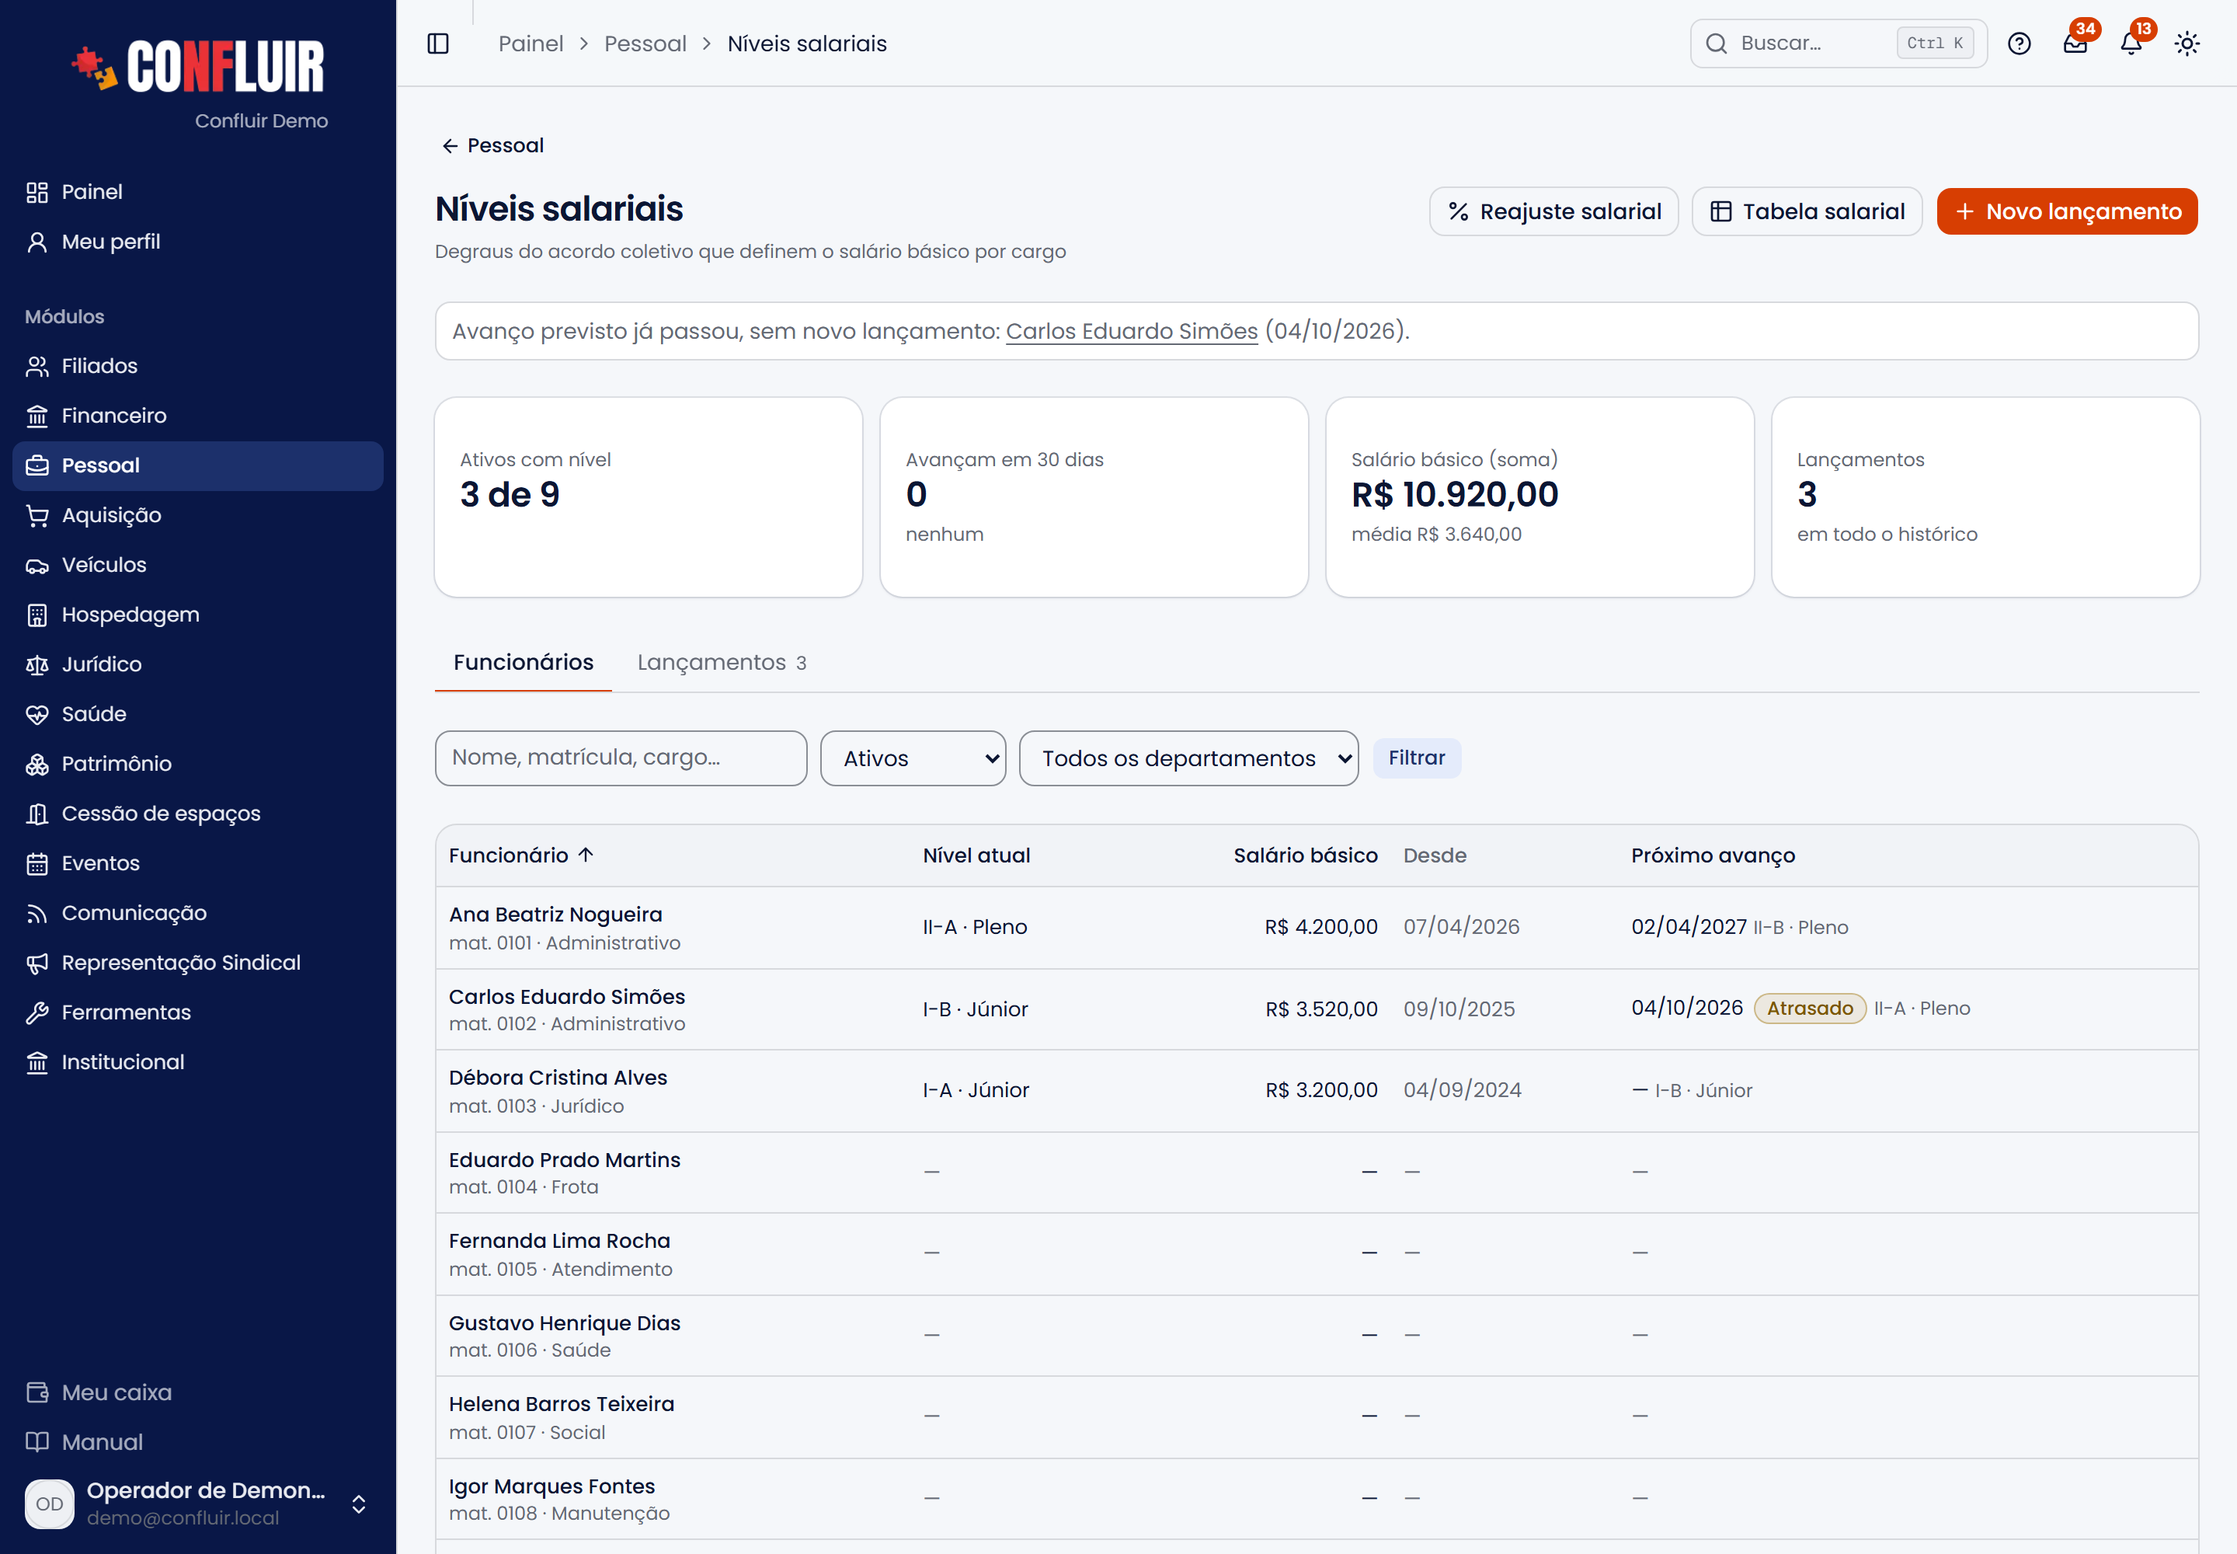
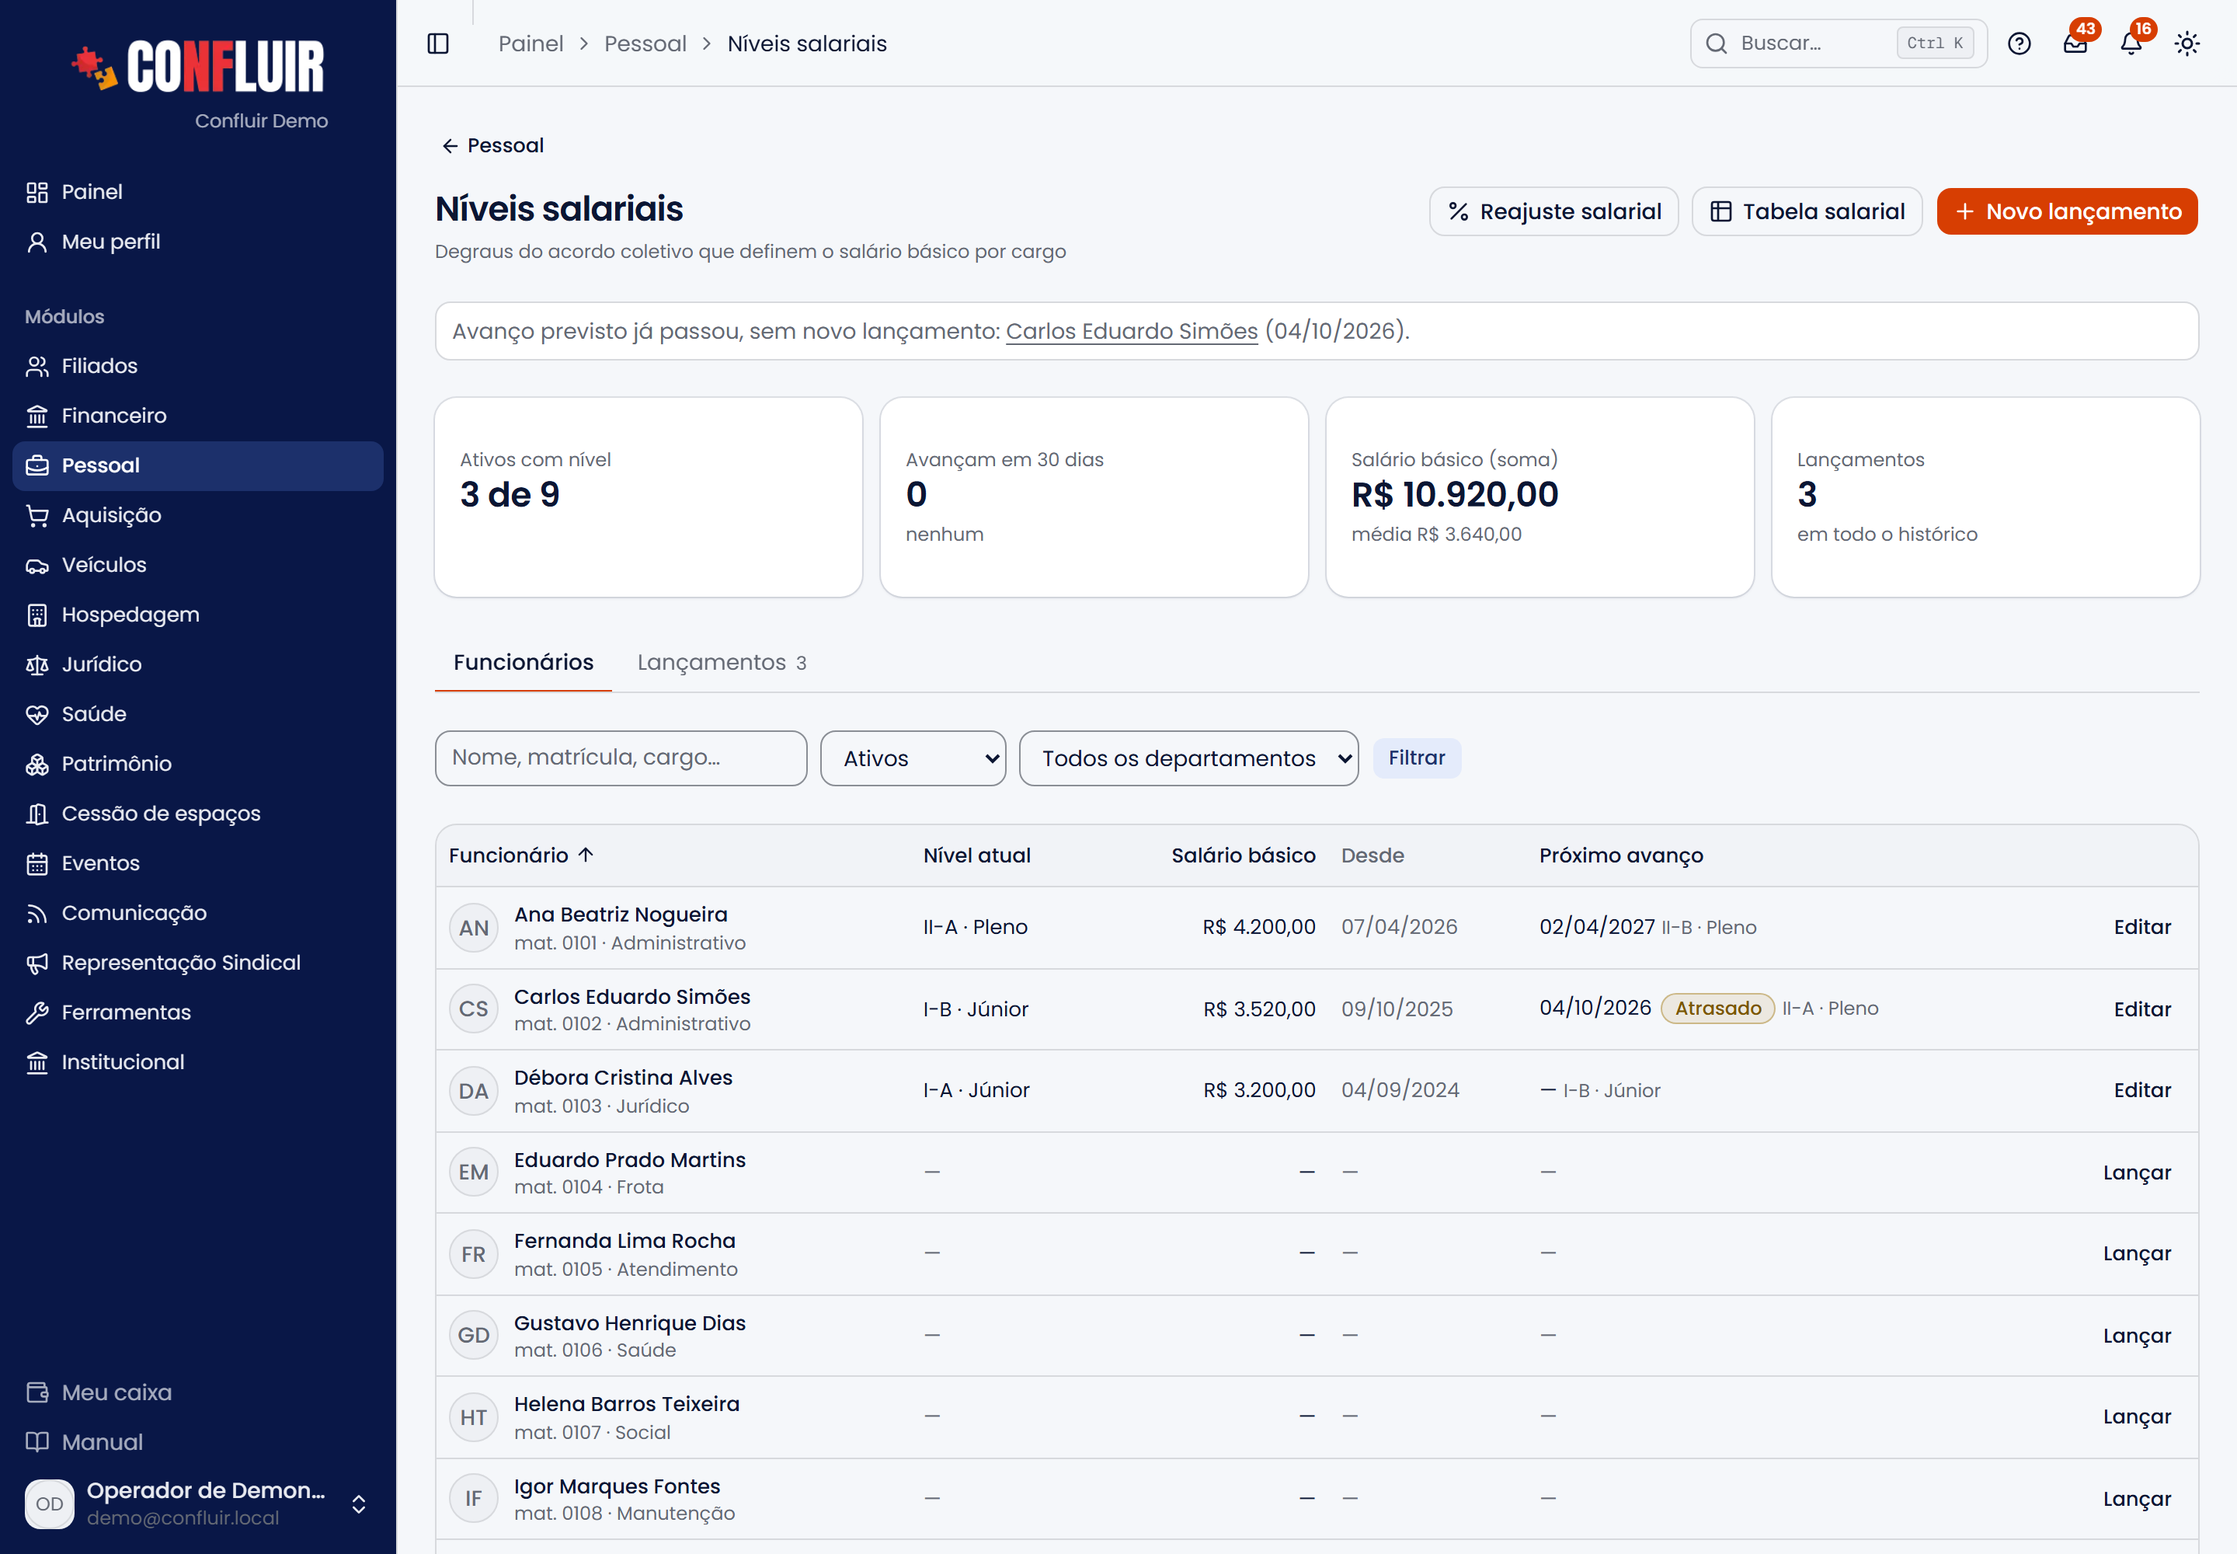
Pessoal: editar o nível direto da Carreira e da aba Funcionários
A edição do lançamento existia, mas só a aba Lançamentos mostrava o botão.
Agora há Editar na Carreira (níveis e anuênios) e na aba Funcionários, Lançar
para quem ainda não tem nível (funcionário já escolhido) e, ao salvar ou
excluir, o sistema volta à tela de origem. Manual e prints atualizados.

diff --git a/src/app/painel/pessoal/carreira/funcionario/[usuarioId]/page.tsx b/src/app/painel/pessoal/carreira/funcionario/[usuarioId]/page.tsx
@@ -6,7 +6,9 @@ import { Award, TrendingUp } from "lucide-react"
 import { TileIndicador } from "@/components/graficos/tile"
 import { RotuloTrilha } from "@/components/layout/trilha-rotulos"
 import { CabecalhoFuncionario } from "@/components/pessoal/cabecalho-funcionario"
+import { Alert, AlertDescription } from "@/components/ui/alert"
 import { Badge } from "@/components/ui/badge"
+import { Button } from "@/components/ui/button"
 import { Card, CardContent, CardDescription, CardHeader, CardTitle } from "@/components/ui/card"
 import { Table, TableBody, TableCell, TableHead, TableHeader, TableRow } from "@/components/ui/table"
 import { VoltarLista } from "@/components/voltar-lista"
@@ -25,9 +27,16 @@ export const metadata: Metadata = { title: "Carreira do funcionário — Conflui
  * parte só aparece se a entidade a usa (multitenant) e a pessoa tem a
  * permissão dela; cada lançamento leva ao nível 3 (a edição).
  */
-export default async function CarreiraFuncionarioPage({ params }: { params: Promise<{ usuarioId: string }> }) {
+export default async function CarreiraFuncionarioPage({
+  params,
+  searchParams,
+}: {
+  params: Promise<{ usuarioId: string }>
+  searchParams: Promise<{ salvo?: string; excluido?: string }>
+}) {
   const sessao = await requirePermissao("pessoal_gestao", ["pessoal_anuenios", "pessoal_niveis_salariais"])
   const { usuarioId } = await params
+  const { salvo, excluido } = await searchParams
   const [funcionario, carreira, uso] = await Promise.all([
     funcionarioDaArea(usuarioId),
     carreiraDoFuncionario(usuarioId),
@@ -62,6 +71,17 @@ export default async function CarreiraFuncionarioPage({ params }: { params: Prom
         permissoes={sessao.permissoes}
         titulo={`Carreira — ${funcionario.nome}`}
       />
+
+      {salvo === "1" && (
+        <Alert className="border-success/40 text-success-fg">
+          <AlertDescription>Lançamento salvo.</AlertDescription>
+        </Alert>
+      )}
+      {excluido === "1" && (
+        <Alert className="border-success/40 text-success-fg">
+          <AlertDescription>Lançamento excluído.</AlertDescription>
+        </Alert>
+      )}
 
       {!mostrarAnu && !mostrarNiv && (
         <p className="text-muted-foreground text-sm">A entidade não usa anuênio nem níveis salariais.</p>
@@ -128,6 +148,7 @@ export default async function CarreiraFuncionarioPage({ params }: { params: Prom
                       <TableHead className="text-right">Alíquota</TableHead>
                       <TableHead className="hidden md:table-cell">Próximo</TableHead>
                       <TableHead>Contabilidade</TableHead>
+                      <TableHead className="w-0" />
                     </TableRow>
                   </TableHeader>
                   <TableBody>
@@ -150,6 +171,11 @@ export default async function CarreiraFuncionarioPage({ params }: { params: Prom
                             <Badge variant="warning">Pendente</Badge>
                           )}
                         </TableCell>
+                        <TableCell className="text-right">
+                          <Button variant="ghost" size="sm" asChild className="h-7 px-2">
+                            <Link href={`/painel/pessoal/anuenios/${a.id}?de=carreira`}>Editar</Link>
+                          </Button>
+                        </TableCell>
                       </TableRow>
                     ))}
                   </TableBody>
@@ -168,7 +194,7 @@ export default async function CarreiraFuncionarioPage({ params }: { params: Prom
             </CardTitle>
             <CardDescription>
               {carreira.niveis.length} lançamento(s), do mais recente ao mais antigo.{" "}
-              <Link href="/painel/pessoal/niveis/novo" className="text-primary hover:underline">
+              <Link href={`/painel/pessoal/niveis/novo?funcionario=${usuarioId}&de=carreira`} className="text-primary hover:underline">
                 Novo lançamento
               </Link>
             </CardDescription>
@@ -184,6 +210,7 @@ export default async function CarreiraFuncionarioPage({ params }: { params: Prom
                       <TableHead className="text-right">Salário básico</TableHead>
                       <TableHead className="hidden sm:table-cell">Tipo de avanço</TableHead>
                       <TableHead className="hidden md:table-cell">Próximo</TableHead>
+                      <TableHead className="w-0" />
                     </TableRow>
                   </TableHeader>
                   <TableBody>
@@ -206,6 +233,11 @@ export default async function CarreiraFuncionarioPage({ params }: { params: Prom
                           {n.proximoNivel || n.proximo_nivel_texto
                             ? `${n.proximoNivel ? rotuloNivelSalarial(n.proximoNivel) : n.proximo_nivel_texto}${n.proximo_nivel_data ? ` em ${formatarData(n.proximo_nivel_data)}` : ""}`
                             : "—"}
+                        </TableCell>
+                        <TableCell className="text-right">
+                          <Button variant="ghost" size="sm" asChild className="h-7 px-2">
+                            <Link href={`/painel/pessoal/niveis/${n.id}?de=carreira`}>Editar</Link>
+                          </Button>
                         </TableCell>
                       </TableRow>
                     ))}

diff --git a/src/app/painel/pessoal/niveis/lancamento-form.tsx b/src/app/painel/pessoal/niveis/lancamento-form.tsx
@@ -85,11 +85,19 @@ export function NivelLancamentoForm({
   niveis,
   tiposAvanco,
   lancamento,
+  funcionarioInicial,
+  de,
+  voltarHref = "/painel/pessoal/niveis",
 }: {
   funcionarios: { usuarioId: string; nome: string }[]
   niveis: OpcaoNivelBase[]
   tiposAvanco: readonly string[]
   lancamento?: NivelFormDados
+  /** Novo lançamento aberto a partir de um funcionário: já vem escolhido. */
+  funcionarioInicial?: string
+  /** Tela de origem ("carreira", "funcionarios", "lancamentos"): é para lá que volta ao salvar. */
+  de?: string
+  voltarHref?: string
 }) {
   const [estado, formAction, pendente] = useActionState(
     lancamento ? atualizarLancamentoNivel : criarLancamentoNivel,
@@ -118,6 +126,7 @@ export function NivelLancamentoForm({
 
       <form action={formAction} {...envio} className="grid gap-4">
         {lancamento && <input type="hidden" name="id" value={lancamento.id} />}
+        {de && <input type="hidden" name="de" value={de} />}
         <Card>
           <CardHeader>
             <CardTitle className="text-base">Dados do nível salarial</CardTitle>
@@ -143,7 +152,7 @@ export function NivelLancamentoForm({
                   id="funcionario_id"
                   name="funcionario_id"
                   required
-                  defaultValue=""
+                  defaultValue={funcionarioInicial ?? ""}
                   className={SELECT}
                 >
                   <option value="" disabled>
@@ -228,7 +237,7 @@ export function NivelLancamentoForm({
 
         <div className="flex items-center justify-end gap-2">
           <Button variant="ghost" asChild>
-            <Link href="/painel/pessoal/niveis">Cancelar</Link>
+            <Link href={voltarHref}>Cancelar</Link>
           </Button>
           <Button type="submit" disabled={pendente}>
             {pendente && <Loader2 className="animate-spin" />}
@@ -243,6 +252,7 @@ export function NivelLancamentoForm({
           className="flex justify-end border-t pt-4"
         >
           <input type="hidden" name="id" value={lancamento.id} />
+          {de && <input type="hidden" name="de" value={de} />}
           <Button
             type="submit"
             variant="ghost"

diff --git a/src/app/painel/pessoal/niveis/actions.ts b/src/app/painel/pessoal/niveis/actions.ts
@@ -33,7 +33,18 @@ function revalidar(funcionarioId?: string | null) {
   revalidatePath("/painel/pessoal/niveis/tabela")
   revalidatePath("/painel/pessoal/niveis/tabelas")
   revalidatePath("/painel/perfil/contracheques")
-  if (funcionarioId) revalidatePath(`/painel/pessoal/${funcionarioId}`)
+  if (funcionarioId) {
+    revalidatePath(`/painel/pessoal/${funcionarioId}`)
+    revalidatePath(`/painel/pessoal/carreira/funcionario/${funcionarioId}`)
+  }
+}
+
+/** Depois de salvar ou excluir, volta à tela de onde o lançamento foi aberto. */
+function destinoDoLancamento(formData: FormData, funcionarioId: string | null, aviso: string) {
+  const de = String(formData.get("de") ?? "")
+  if (de === "carreira" && funcionarioId) return `/painel/pessoal/carreira/funcionario/${funcionarioId}?${aviso}`
+  if (de === "lancamentos") return `/painel/pessoal/niveis?aba=lancamentos&${aviso}`
+  return `/painel/pessoal/niveis?${aviso}`
 }
 
 function lerCamposLancamento(formData: FormData) {
@@ -78,7 +89,7 @@ export async function criarLancamentoNivel(
   if (erro) return { erro }
 
   revalidar(dados.funcionario_id)
-  redirect("/painel/pessoal/niveis?salvo=1")
+  redirect(destinoDoLancamento(formData, dados.funcionario_id, "salvo=1"))
 }
 
 export async function atualizarLancamentoNivel(
@@ -97,7 +108,7 @@ export async function atualizarLancamentoNivel(
   if (erro) return { erro }
 
   revalidar(dados.funcionario_id)
-  redirect("/painel/pessoal/niveis?salvo=1")
+  redirect(destinoDoLancamento(formData, dados.funcionario_id, "salvo=1"))
 }
 
 export async function excluirLancamentoNivel(
@@ -119,7 +130,7 @@ export async function excluirLancamentoNivel(
   if ((data ?? []).length === 0) return { erro: "Lançamento não encontrado." }
 
   revalidar(data![0].funcionario_id)
-  redirect("/painel/pessoal/niveis?excluido=1")
+  redirect(destinoDoLancamento(formData, data![0].funcionario_id, "excluido=1"))
 }
 
 // ── Reajuste salarial linear ───────────────────────────────────────────────

diff --git a/src/app/painel/pessoal/niveis/novo/page.tsx b/src/app/painel/pessoal/niveis/novo/page.tsx
@@ -18,21 +18,32 @@ export const metadata: Metadata = {
   title: "Novo lançamento de nível salarial — Confluir",
 }
 
-export default async function NovoNivelPage() {
+export default async function NovoNivelPage({
+  searchParams,
+}: {
+  /** funcionario: já vem escolhido; de=carreira: volta à Carreira dele ao salvar. */
+  searchParams: Promise<{ funcionario?: string; de?: string }>
+}) {
   await requirePermissao("pessoal_gestao", ["pessoal_niveis_salariais"])
 
+  const sp = await searchParams
   const [funcionarios, base] = await Promise.all([
     funcionariosParaSelecao(),
     listarNivelSalarialBase(),
   ])
+  const escolhido = funcionarios.find((f) => f.usuarioId === sp.funcionario)
+  const daCarreira = sp.de === "carreira" && Boolean(escolhido)
+  const voltar = daCarreira
+    ? { href: `/painel/pessoal/carreira/funcionario/${escolhido!.usuarioId}`, rotulo: escolhido!.nome }
+    : { href: "/painel/pessoal/niveis", rotulo: "Níveis salariais" }
 
   return (
     <>
       <div>
         <Button variant="ghost" size="sm" asChild className="-ml-2 mb-3">
-          <Link href="/painel/pessoal/niveis">
+          <Link href={voltar.href}>
             <ArrowLeft />
-            Níveis salariais
+            {voltar.rotulo}
           </Link>
         </Button>
         <h1 className="text-2xl font-semibold tracking-tight">
@@ -44,6 +55,9 @@ export default async function NovoNivelPage() {
         </p>
       </div>
       <NivelLancamentoForm
+        funcionarioInicial={escolhido?.usuarioId}
+        de={daCarreira ? "carreira" : undefined}
+        voltarHref={voltar.href}
         funcionarios={funcionarios}
         tiposAvanco={TIPOS_AVANCO}
         niveis={base.map((b) => ({

diff --git a/src/app/painel/pessoal/niveis/page.tsx b/src/app/painel/pessoal/niveis/page.tsx
@@ -260,6 +260,29 @@ function AbaFuncionarios({
               )
             },
           },
+          {
+            chave: "acoes",
+            rotulo: "",
+            ordenavel: false,
+            className: "text-right",
+            valor: (l) => {
+              const n = nivelDe.get(l.usuarioId)
+              if (!n && !l.ativo) return null
+              return (
+                <Button variant="ghost" size="sm" asChild className="h-7 px-2">
+                  <Link
+                    href={
+                      n
+                        ? `/painel/pessoal/niveis/${n.atual.id}?de=funcionarios`
+                        : `/painel/pessoal/niveis/novo?funcionario=${l.usuarioId}`
+                    }
+                  >
+                    {n ? "Editar" : "Lançar"}
+                  </Link>
+                </Button>
+              )
+            },
+          },
         ]}
       />
     </>

diff --git a/src/app/painel/pessoal/niveis/[id]/page.tsx b/src/app/painel/pessoal/niveis/[id]/page.tsx
@@ -70,6 +70,8 @@ export default async function EditarNivelPage({
         <h1 className="text-2xl font-semibold tracking-tight">Editar lançamento de nível salarial</h1>
       )}
       <NivelLancamentoForm
+        de={de === "carreira" || de === "funcionarios" ? de : "lancamentos"}
+        voltarHref={voltar.href}
         funcionarios={funcionarios}
         tiposAvanco={TIPOS_AVANCO}
         niveis={base.map((b) => ({
